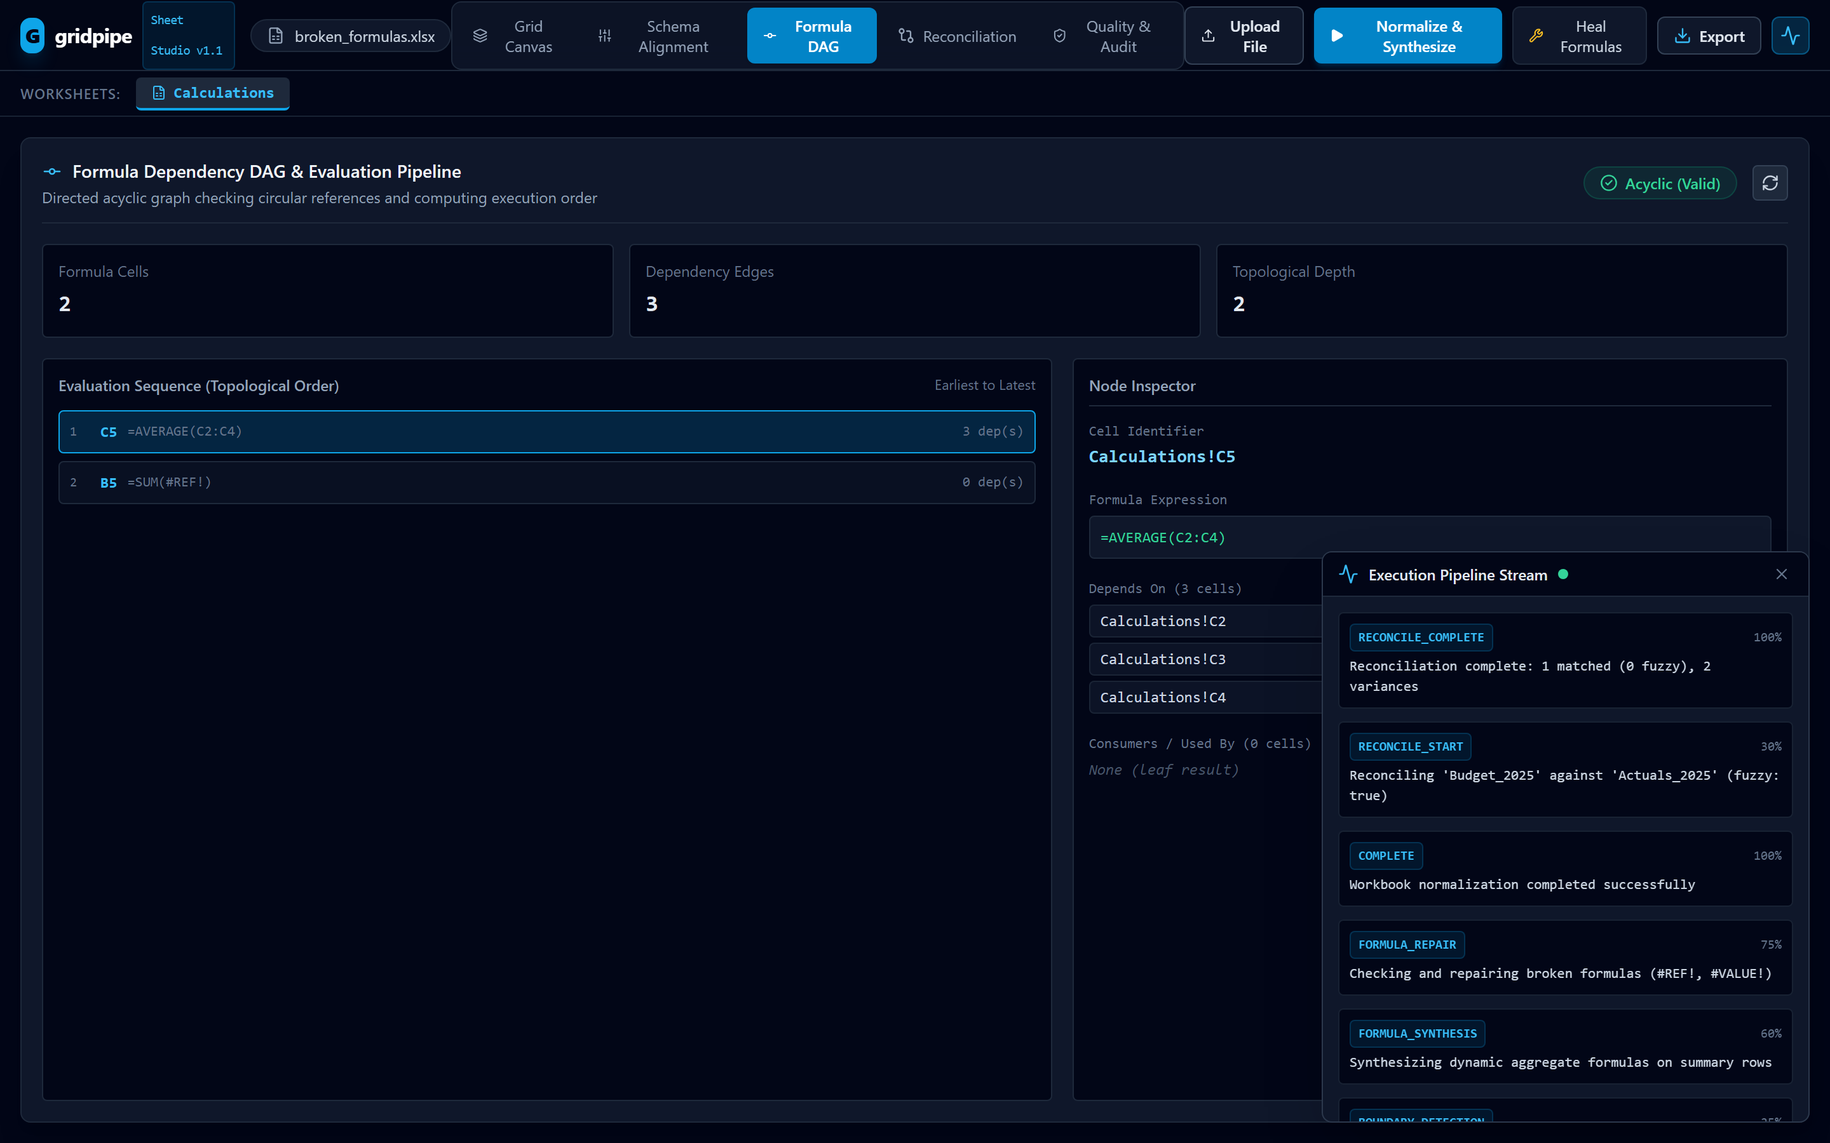
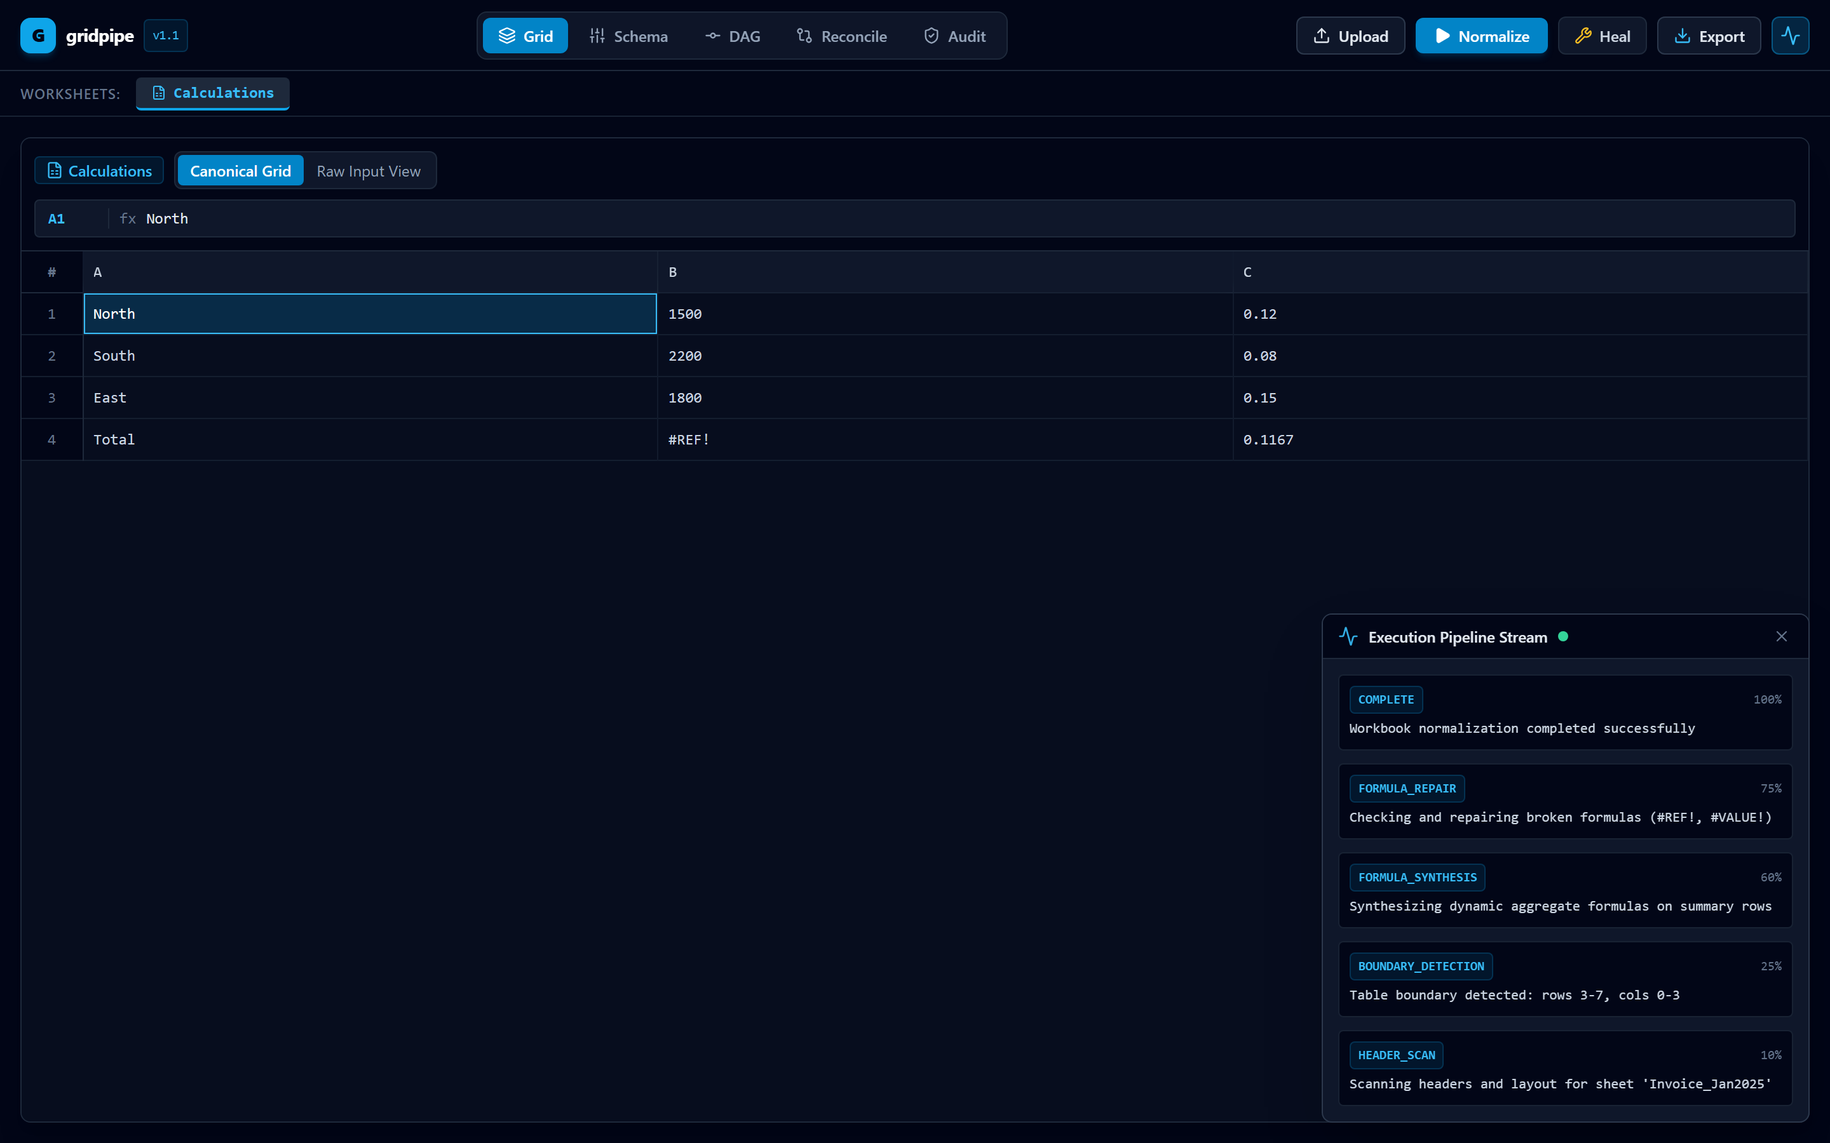
fix(ui): eliminate header text wrapping, prevent toast overlap, and refine adaptive toolbar layout

diff --git a/web/src/App.tsx b/web/src/App.tsx
@@ -200,101 +200,119 @@ export const App: React.FC = () => {
 
   return (
     <div className="flex flex-col h-screen bg-slate-950 text-slate-100 overflow-hidden font-sans">
-      {/* Toast Notification */}
+      {/* Toast Notification (Bottom Right so it never overlaps header controls) */}
       {toast && (
         <div
-          className={`fixed top-4 right-4 z-50 px-4 py-2.5 rounded-lg border text-xs font-medium shadow-2xl flex items-center gap-2 transition-all ${
+          className={`fixed bottom-6 right-6 z-50 px-4 py-2.5 rounded-lg border text-xs font-medium shadow-2xl flex items-center gap-2 transition-all animate-in fade-in slide-in-from-bottom-2 ${
             toast.type === 'success'
-              ? 'bg-emerald-950/90 text-emerald-300 border-emerald-500/30'
-              : 'bg-rose-950/90 text-rose-300 border-rose-500/30'
+              ? 'bg-emerald-950/95 text-emerald-300 border-emerald-500/30 shadow-emerald-950/50'
+              : 'bg-rose-950/95 text-rose-300 border-rose-500/30 shadow-rose-950/50'
           }`}
         >
           {toast.type === 'success' ? (
-            <CheckCircle2 className="w-4 h-4 text-emerald-400" />
+            <CheckCircle2 className="w-4 h-4 text-emerald-400 shrink-0" />
           ) : (
-            <AlertCircle className="w-4 h-4 text-rose-400" />
+            <AlertCircle className="w-4 h-4 text-rose-400 shrink-0" />
           )}
-          {toast.msg}
+          <span className="whitespace-nowrap">{toast.msg}</span>
         </div>
       )}
 
       {/* Top Main Navigation Bar */}
-      <header className="h-14 border-b border-slate-800 bg-slate-950/80 backdrop-blur px-3 sm:px-4 flex items-center justify-between shrink-0 gap-2">
+      <header className="h-14 border-b border-slate-800 bg-slate-950/95 backdrop-blur px-3 sm:px-4 flex items-center justify-between shrink-0 gap-2 sm:gap-4 select-none">
+        {/* Left Section: Brand & Active File */}
         <div className="flex items-center gap-2 sm:gap-3 shrink-0">
-          <div className="flex items-center gap-2 font-bold tracking-tight text-white text-base">
-            <div className="w-7 h-7 rounded-lg bg-sky-500 flex items-center justify-center text-slate-950 font-black shadow-lg shadow-sky-500/20">
+          <div className="flex items-center gap-2 font-bold tracking-tight text-white text-sm shrink-0">
+            <div className="w-7 h-7 rounded-lg bg-sky-500 flex items-center justify-center text-slate-950 font-black shadow-md shadow-sky-500/20 shrink-0">
               G
             </div>
-            <span className="hidden xs:inline">gridpipe</span>
-            <span className="hidden sm:inline text-[10px] text-sky-400 bg-sky-500/10 border border-sky-500/20 px-1.5 py-0.5 rounded font-mono font-normal">
+            <span className="whitespace-nowrap font-bold">gridpipe</span>
+            <span className="text-[10px] font-mono font-medium text-sky-400 bg-sky-500/10 border border-sky-500/20 px-1.5 py-0.5 rounded whitespace-nowrap">
               v1.1
             </span>
           </div>
 
           {fileName && (
-            <div className="hidden md:flex items-center gap-2 text-xs bg-slate-900 border border-slate-800 px-3 py-1 rounded-full text-slate-300">
-              <FileSpreadsheet className="w-3.5 h-3.5 text-slate-400" />
-              <span className="truncate max-w-[160px] lg:max-w-[240px]">{fileName}</span>
+            <div className="hidden 2xl:flex items-center gap-1.5 text-xs bg-slate-900 border border-slate-800 px-2.5 py-1 rounded-full text-slate-300 max-w-[180px] shrink-0">
+              <FileSpreadsheet className="w-3.5 h-3.5 text-slate-400 shrink-0" />
+              <span className="truncate whitespace-nowrap font-mono text-[11px]">{fileName}</span>
             </div>
           )}
         </div>
 
-        {/* Center Navigation Tabs */}
-        <div className="flex items-center gap-0.5 sm:gap-1 bg-slate-900/80 border border-slate-800 p-1 rounded-lg text-xs overflow-x-auto scrollbar-none max-w-full">
+        {/* Center Section: Navigation Tabs */}
+        <nav className="flex items-center gap-1 bg-slate-900/90 border border-slate-800 p-1 rounded-lg text-xs shrink-0 whitespace-nowrap">
           <button
             onClick={() => setActiveTab('grid')}
-            title="Grid Canvas"
-            className={`flex items-center gap-1.5 px-2.5 sm:px-3 py-1.5 rounded-md transition-colors shrink-0 ${
-              activeTab === 'grid' ? 'bg-sky-600 text-white font-medium shadow-sm' : 'text-slate-400 hover:text-slate-200'
+            title="Grid Canvas (Normalized Table)"
+            className={`whitespace-nowrap flex items-center gap-1.5 px-2.5 sm:px-3 py-1.5 rounded-md transition-colors text-xs font-medium shrink-0 ${
+              activeTab === 'grid'
+                ? 'bg-sky-600 text-white shadow-sm'
+                : 'text-slate-400 hover:text-slate-200 hover:bg-slate-800/60'
             }`}
           >
-            <Layers className="w-3.5 h-3.5" />
-            <span className="hidden md:inline">Grid Canvas</span>
+            <Layers className="w-3.5 h-3.5 shrink-0" />
+            <span>Grid</span>
+            <span className="hidden 2xl:inline">Canvas</span>
           </button>
+
           <button
             onClick={() => setActiveTab('schema')}
-            title="Schema Alignment"
-            className={`flex items-center gap-1.5 px-2.5 sm:px-3 py-1.5 rounded-md transition-colors shrink-0 ${
-              activeTab === 'schema' ? 'bg-sky-600 text-white font-medium shadow-sm' : 'text-slate-400 hover:text-slate-200'
+            title="Schema Alignment & Type Definitions"
+            className={`whitespace-nowrap flex items-center gap-1.5 px-2.5 sm:px-3 py-1.5 rounded-md transition-colors text-xs font-medium shrink-0 ${
+              activeTab === 'schema'
+                ? 'bg-sky-600 text-white shadow-sm'
+                : 'text-slate-400 hover:text-slate-200 hover:bg-slate-800/60'
             }`}
           >
-            <Sliders className="w-3.5 h-3.5" />
-            <span className="hidden md:inline">Schema</span>
+            <Sliders className="w-3.5 h-3.5 shrink-0" />
+            <span>Schema</span>
           </button>
+
           <button
             onClick={() => setActiveTab('dag')}
-            title="Formula DAG"
-            className={`flex items-center gap-1.5 px-2.5 sm:px-3 py-1.5 rounded-md transition-colors shrink-0 ${
-              activeTab === 'dag' ? 'bg-sky-600 text-white font-medium shadow-sm' : 'text-slate-400 hover:text-slate-200'
+            title="Formula Dependency DAG & Cycle Detection"
+            className={`whitespace-nowrap flex items-center gap-1.5 px-2.5 sm:px-3 py-1.5 rounded-md transition-colors text-xs font-medium shrink-0 ${
+              activeTab === 'dag'
+                ? 'bg-sky-600 text-white shadow-sm'
+                : 'text-slate-400 hover:text-slate-200 hover:bg-slate-800/60'
             }`}
           >
-            <GitCommit className="w-3.5 h-3.5" />
-            <span className="hidden md:inline">Formula DAG</span>
+            <GitCommit className="w-3.5 h-3.5 shrink-0" />
+            <span>DAG</span>
+            <span className="hidden 2xl:inline">Formulas</span>
           </button>
+
           <button
             onClick={() => setActiveTab('variance')}
-            title="Reconciliation"
-            className={`flex items-center gap-1.5 px-2.5 sm:px-3 py-1.5 rounded-md transition-colors shrink-0 ${
-              activeTab === 'variance' ? 'bg-sky-600 text-white font-medium shadow-sm' : 'text-slate-400 hover:text-slate-200'
+            title="Cross-Tab Variance Reconciliation"
+            className={`whitespace-nowrap flex items-center gap-1.5 px-2.5 sm:px-3 py-1.5 rounded-md transition-colors text-xs font-medium shrink-0 ${
+              activeTab === 'variance'
+                ? 'bg-sky-600 text-white shadow-sm'
+                : 'text-slate-400 hover:text-slate-200 hover:bg-slate-800/60'
             }`}
           >
-            <GitCompare className="w-3.5 h-3.5" />
-            <span className="hidden md:inline">Reconciliation</span>
+            <GitCompare className="w-3.5 h-3.5 shrink-0" />
+            <span>Reconcile</span>
           </button>
+
           <button
             onClick={() => setActiveTab('audit')}
-            title="Quality & Audit"
-            className={`flex items-center gap-1.5 px-2.5 sm:px-3 py-1.5 rounded-md transition-colors shrink-0 ${
-              activeTab === 'audit' ? 'bg-sky-600 text-white font-medium shadow-sm' : 'text-slate-400 hover:text-slate-200'
+            title="Data Quality & Compliance Scorecard"
+            className={`whitespace-nowrap flex items-center gap-1.5 px-2.5 sm:px-3 py-1.5 rounded-md transition-colors text-xs font-medium shrink-0 ${
+              activeTab === 'audit'
+                ? 'bg-sky-600 text-white shadow-sm'
+                : 'text-slate-400 hover:text-slate-200 hover:bg-slate-800/60'
             }`}
           >
-            <ShieldCheck className="w-3.5 h-3.5" />
-            <span className="hidden md:inline">Quality & Audit</span>
+            <ShieldCheck className="w-3.5 h-3.5 shrink-0" />
+            <span>Audit</span>
+            <span className="hidden 2xl:inline">Score</span>
           </button>
-        </div>
+        </nav>
 
-        {/* Action Controls */}
-        <div className="flex items-center gap-1.5 sm:gap-2 shrink-0">
+        {/* Right Section: Action Controls */}
+        <div className="flex items-center gap-1.5 sm:gap-2 shrink-0 whitespace-nowrap">
           <input
             type="file"
             ref={fileInputRef}
@@ -302,68 +320,69 @@ export const App: React.FC = () => {
             accept=".xlsx,.csv"
             className="hidden"
           />
+
           <button
             onClick={() => fileInputRef.current?.click()}
             disabled={loading}
-            className="px-2.5 sm:px-3 py-1.5 bg-slate-900 hover:bg-slate-800 text-slate-200 border border-slate-700 rounded-md text-xs font-medium flex items-center gap-1.5 transition-colors"
-            title="Upload File"
+            className="whitespace-nowrap px-2.5 sm:px-3 py-1.5 bg-slate-900 hover:bg-slate-800 text-slate-200 border border-slate-700/80 rounded-md text-xs font-medium flex items-center gap-1.5 transition-colors shrink-0"
+            title="Upload Spreadsheet (.xlsx or .csv)"
           >
-            <Upload className="w-3.5 h-3.5" />
+            <Upload className="w-3.5 h-3.5 shrink-0" />
             <span className="hidden sm:inline">Upload</span>
           </button>
 
           <button
             onClick={handleRunClean}
             disabled={loading || sheets.length === 0}
-            className="px-2.5 sm:px-3 py-1.5 bg-sky-600 hover:bg-sky-500 disabled:bg-slate-800 disabled:text-slate-600 text-white rounded-md text-xs font-semibold flex items-center gap-1.5 transition-all shadow-md shadow-sky-600/20"
-            title="Normalize & Synthesize Formulas"
+            className="whitespace-nowrap px-3 sm:px-3.5 py-1.5 bg-sky-600 hover:bg-sky-500 disabled:bg-slate-800 disabled:text-slate-600 text-white rounded-md text-xs font-semibold flex items-center gap-1.5 transition-all shadow-md shadow-sky-600/20 shrink-0"
+            title="Normalize headers, format dates/numbers, and synthesize native formulas"
           >
-            <Play className="w-3.5 h-3.5 fill-white" />
-            <span className="hidden sm:inline">Normalize</span>
+            <Play className="w-3.5 h-3.5 fill-white shrink-0" />
+            <span>Normalize</span>
           </button>
 
           <button
             onClick={handleRunRepair}
             disabled={loading || sheets.length === 0}
-            className="px-2 sm:px-3 py-1.5 bg-slate-900 hover:bg-slate-800 text-slate-300 border border-slate-800 rounded-md text-xs flex items-center gap-1.5 transition-colors"
-            title="Scan and heal broken references (#REF!, #VALUE!)"
+            className="whitespace-nowrap px-2 sm:px-3 py-1.5 bg-slate-900 hover:bg-slate-800 text-slate-300 border border-slate-800 rounded-md text-xs font-medium flex items-center gap-1.5 transition-colors shrink-0"
+            title="Scan and heal corrupted formula references (#REF!, #VALUE!)"
           >
-            <Wrench className="w-3.5 h-3.5 text-amber-400" />
-            <span className="hidden lg:inline">Heal</span>
+            <Wrench className="w-3.5 h-3.5 text-amber-400 shrink-0" />
+            <span className="hidden md:inline">Heal</span>
           </button>
 
           {/* Export Dropdown */}
-          <div className="relative group">
+          <div className="relative group shrink-0">
             <button
               disabled={sheets.length === 0}
-              className="px-2.5 sm:px-3 py-1.5 bg-slate-900 hover:bg-slate-800 disabled:opacity-50 text-slate-200 border border-slate-700 rounded-md text-xs font-medium flex items-center gap-1.5"
-              title="Export Data"
+              className="whitespace-nowrap px-2.5 sm:px-3 py-1.5 bg-slate-900 hover:bg-slate-800 disabled:opacity-50 text-slate-200 border border-slate-700/80 rounded-md text-xs font-medium flex items-center gap-1.5 shrink-0"
+              title="Export audited workbook or data format"
             >
-              <Download className="w-3.5 h-3.5 text-sky-400" />
+              <Download className="w-3.5 h-3.5 text-sky-400 shrink-0" />
               <span className="hidden sm:inline">Export</span>
             </button>
             <div className="absolute right-0 top-full mt-1 hidden group-hover:block bg-slate-900 border border-slate-800 rounded-lg shadow-xl py-1 w-44 z-40 text-xs">
               <button
                 onClick={() => handleExport('xlsx')}
-                className="w-full text-left px-3 py-1.5 text-slate-300 hover:bg-slate-800 hover:text-white flex items-center gap-2"
+                className="w-full text-left px-3 py-1.5 text-slate-300 hover:bg-slate-800 hover:text-white flex items-center gap-2 whitespace-nowrap"
               >
                 <span>Audited Excel (.xlsx)</span>
               </button>
               <button
                 onClick={() => handleExport('csv')}
-                className="w-full text-left px-3 py-1.5 text-slate-300 hover:bg-slate-800 hover:text-white flex items-center gap-2"
+                className="w-full text-left px-3 py-1.5 text-slate-300 hover:bg-slate-800 hover:text-white flex items-center gap-2 whitespace-nowrap"
               >
                 <span>Relational CSV (.csv)</span>
               </button>
               <button
                 onClick={() => handleExport('jsonl')}
-                className="w-full text-left px-3 py-1.5 text-slate-300 hover:bg-slate-800 hover:text-white flex items-center gap-2"
+                className="w-full text-left px-3 py-1.5 text-slate-300 hover:bg-slate-800 hover:text-white flex items-center gap-2 whitespace-nowrap"
               >
                 <span>JSON Lines (.jsonl)</span>
               </button>
               <button
                 onClick={() => handleExport('sql')}
-                className="w-full text-left px-3 py-1.5 text-slate-300 hover:bg-slate-800 hover:text-white flex items-center gap-2"
+                className="w-full text-left px-3 py-1.5 text-slate-300 hover:bg-slate-800 hover:text-white flex items-center gap-2 whitespace-nowrap"
               >
                 <span>SQL Schema & Inserts</span>
               </button>
@@ -372,36 +391,36 @@ export const App: React.FC = () => {
 
           <button
             onClick={() => setStreamOpen(!streamOpen)}
-            className={`p-1.5 rounded-md border text-xs transition-colors ${
+            className={`p-1.5 rounded-md border text-xs transition-colors shrink-0 ${
               streamOpen
                 ? 'bg-sky-500/20 text-sky-400 border-sky-500/40'
                 : 'bg-slate-900 text-slate-400 border-slate-800 hover:text-slate-200'
             }`}
-            title="Toggle Live Execution Stream"
+            title="Toggle Live Pipeline Execution Stream"
           >
-            <Activity className="w-4 h-4" />
+            <Activity className="w-4 h-4 shrink-0" />
           </button>
         </div>
       </header>
 
       {/* Sheets Tab Bar (if multi-sheet workbook) */}
       {sheets.length > 0 && (
-        <div className="h-9 bg-slate-950 border-b border-slate-800/80 px-4 flex items-center gap-2 shrink-0 overflow-x-auto text-xs">
-          <span className="text-slate-500 text-[11px] font-semibold uppercase tracking-wider mr-1">
+        <div className="h-9 bg-slate-950 border-b border-slate-800/80 px-4 flex items-center gap-2 shrink-0 overflow-x-auto scrollbar-none text-xs">
+          <span className="text-slate-500 text-[11px] font-semibold uppercase tracking-wider mr-1 whitespace-nowrap shrink-0">
             Worksheets:
           </span>
           {sheets.map((s, idx) => (
             <button
               key={s.name}
               onClick={() => setActiveSheetIdx(idx)}
-              className={`px-3 py-1 rounded transition-colors flex items-center gap-1.5 font-mono ${
+              className={`px-3 py-1 rounded transition-colors flex items-center gap-1.5 font-mono whitespace-nowrap shrink-0 ${
                 activeSheetIdx === idx
                   ? 'bg-slate-800 text-sky-400 font-semibold border-b-2 border-sky-500'
                   : 'text-slate-400 hover:text-slate-200'
               }`}
             >
-              <FileSpreadsheet className="w-3 h-3" />
-              {s.name}
+              <FileSpreadsheet className="w-3 h-3 shrink-0" />
+              <span>{s.name}</span>
             </button>
           ))}
         </div>

diff --git a/web/src/components/GridCanvas.tsx b/web/src/components/GridCanvas.tsx
@@ -78,16 +78,16 @@ export const GridCanvas: React.FC<GridCanvasProps> = ({
     <div className="flex flex-col h-full bg-slate-900 border border-slate-800 rounded-lg overflow-hidden shadow-xl">
       {/* Top Toolbar & Formula Bar */}
       <div className="bg-slate-950 border-b border-slate-800 p-2.5 flex flex-col gap-2">
-        <div className="flex items-center justify-between">
-          <div className="flex items-center gap-2">
-            <span className="text-xs font-semibold px-2 py-0.5 rounded bg-sky-500/10 text-sky-400 border border-sky-500/20 flex items-center gap-1">
-              <FileSpreadsheet className="w-3.5 h-3.5" />
-              {sheetName}
+        <div className="flex items-center justify-between gap-2 overflow-x-auto scrollbar-none">
+          <div className="flex items-center gap-2 shrink-0 whitespace-nowrap">
+            <span className="text-xs font-semibold px-2 py-0.5 rounded bg-sky-500/10 text-sky-400 border border-sky-500/20 flex items-center gap-1 whitespace-nowrap shrink-0">
+              <FileSpreadsheet className="w-3.5 h-3.5 shrink-0" />
+              <span>{sheetName}</span>
             </span>
-            <div className="flex bg-slate-900 rounded-md p-0.5 border border-slate-800 text-xs">
+            <div className="flex bg-slate-900 rounded-md p-0.5 border border-slate-800 text-xs shrink-0 whitespace-nowrap">
               <button
                 onClick={() => setViewMode('clean')}
-                className={`px-2.5 py-1 rounded transition-colors ${
+                className={`px-2.5 py-1 rounded transition-colors whitespace-nowrap shrink-0 ${
                   viewMode === 'clean' ? 'bg-sky-600 text-white font-medium' : 'text-slate-400 hover:text-slate-200'
                 }`}
               >
@@ -95,7 +95,7 @@ export const GridCanvas: React.FC<GridCanvasProps> = ({
               </button>
               <button
                 onClick={() => setViewMode('raw')}
-                className={`px-2.5 py-1 rounded transition-colors ${
+                className={`px-2.5 py-1 rounded transition-colors whitespace-nowrap shrink-0 ${
                   viewMode === 'raw' ? 'bg-sky-600 text-white font-medium' : 'text-slate-400 hover:text-slate-200'
                 }`}
               >
@@ -103,20 +103,20 @@ export const GridCanvas: React.FC<GridCanvasProps> = ({
               </button>
             </div>
             {saving && (
-              <span className="text-xs text-sky-400 font-mono animate-pulse">
+              <span className="text-xs text-sky-400 font-mono animate-pulse whitespace-nowrap shrink-0">
                 Saving cell...
               </span>
             )}
           </div>
 
           {activeColType && (
-            <div className="flex items-center gap-2 text-xs">
-              <span className="text-slate-400">Column Type:</span>
-              <span className="px-2 py-0.5 rounded-full bg-slate-800 text-slate-300 border border-slate-700 font-mono">
+            <div className="flex items-center gap-2 text-xs shrink-0 whitespace-nowrap">
+              <span className="text-slate-400 whitespace-nowrap">Column Type:</span>
+              <span className="px-2 py-0.5 rounded-full bg-slate-800 text-slate-300 border border-slate-700 font-mono whitespace-nowrap">
                 {activeColType.type.toUpperCase()}
                 {activeColType.currency_code && ` (${activeColType.currency_code})`}
               </span>
-              <span className="text-slate-500 text-[11px]">
+              <span className="text-slate-500 text-[11px] whitespace-nowrap">
                 {Math.round(activeColType.confidence * 100)}% confidence
               </span>
             </div>
